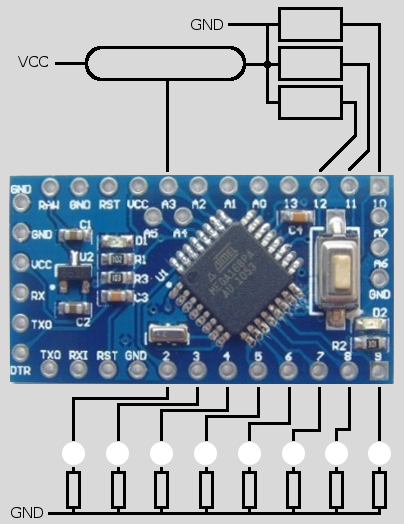
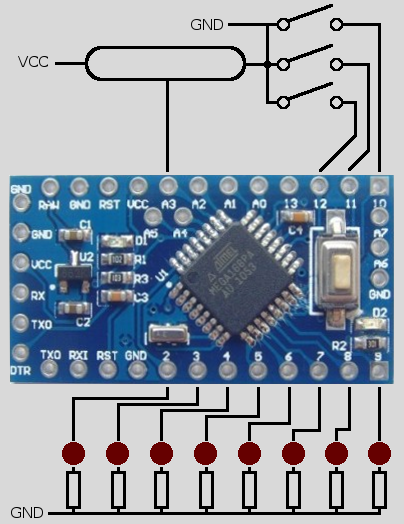
Leds implemented

diff --git a/board.js b/board.js
@@ -1,0 +1,49 @@
+var board = {
+    
+    image: null,
+    ledCoords: [[74, 454], [118, 454], [162, 454], [206, 454], [250, 454], [294, 454], [337, 454], [380, 454],
+            null, null, null, null, null, [372, 324]],
+    ledDiam: 12,
+    
+    pinChanged: [],
+    
+    preload: function() {
+        board.image = loadImage('board.png');
+    },
+    
+    setup: function() {
+        board.offsX = 380; // todo make automatic
+        board.offsY = Math.floor((height - board.image.height) / 2);
+        image(board.image, board.offsX, board.offsY);
+    },
+    
+    draw: function() {
+        if (board.pinChanged.length > 0) {
+            for (var p in board.pinChanged) {
+                board.drawLed(p, pinState[p]);
+            }
+            board.pinChanged = [];
+        }
+    },
+    
+    drawLed(p, state) {
+        if (board.ledCoords[p] === null) {
+            return;
+        }
+        var x = board.ledCoords[p][0];
+        var y = board.ledCoords[p][1];
+        var d = board.ledDiam;
+        if (state < 1) {
+            copy(board.image, x - d - 1, y - d -1, d * 2 + 2, d * 2 + 2,
+                board.offsX + x - d - 1, board.offsY + y - d - 1, d * 2 + 2, d * 2 + 2);
+        }
+        if (state > 0 || state < -1) {
+            fill(255, 0, 0);
+            if (state < 0) {
+                d = Math.floor(d / 4);
+            }
+            ellipse(board.offsX + x, board.offsY + y, d * 2 + 1, d * 2 + 1);
+        }
+    },
+};
+

diff --git a/emu-main.js b/emu-main.js
@@ -13,7 +13,7 @@ var pinSignal = [];
 var adcSignal = [];
 
 function preload() {
-    boardImage = loadImage('board.png');
+    board.preload();
 }
 
 function setup() {
@@ -26,10 +26,10 @@ function setup() {
     _initBasic();
     setupPins();
     createCanvas(800, 600);
+    terminal.setup();
+    board.setup();
     shiftPressed = false;
     controlPressed = false;
-    setInterval(procBas, 50);
-    image(boardImage, 380, (height - boardImage.height) / 2);
     windowResized();
 }
 
@@ -42,11 +42,11 @@ function setupPins() {
 }
 
 function draw() {
-    terminal.draw();
-    if (typeof(checked) == 'undefined') {
-        console.log(typeof(terminal));
-        checked = true;
+    for (var i = 0; i < 100; i++) {
+        procBas();
     }
+    terminal.draw();
+    board.draw();
 }
 
 function windowResized() {
@@ -128,6 +128,7 @@ function jsPutc(c) {
 function pinOut(pin, value) {
     if (pin >= 0 && pin < 16) {
         pinState[pin] = value;
+        board.pinChanged[pin] = true;
     }
 }
 
@@ -183,3 +184,5 @@ function storageOp(arg) {
 }
 
 addScript('./terminal.js');
+addScript('./board.js');
+

diff --git a/terminal.js b/terminal.js
@@ -9,11 +9,10 @@ var terminal = {
     h: 24,
     curX: 0,
     curY: 0,
-    redraw: true,
 
     chars: [],
     
-    onRedraw: function() {
+    setup: function() {
         textFont('Courier New', terminal.fontSize);
         textStyle(BOLD);
         terminal.charW = Math.ceil(textWidth('A'));
@@ -30,13 +29,9 @@ var terminal = {
         fill(0, 0, 0);
         rect(terminal.offsX - 1, terminal.offsY - 1,
                 terminal.charW * terminal.w + 2, terminal.charH * terminal.h + 2);
-        terminal.redraw = false;
     },
 
     draw: function() {
-        if (terminal.redraw) {
-            terminal.onRedraw();
-        }
         while (terminal.chars.length > 0) {
             terminal.putc(String.fromCharCode(terminal.chars.shift()));
         }
@@ -101,3 +96,4 @@ var terminal = {
     }
 
 };
+
